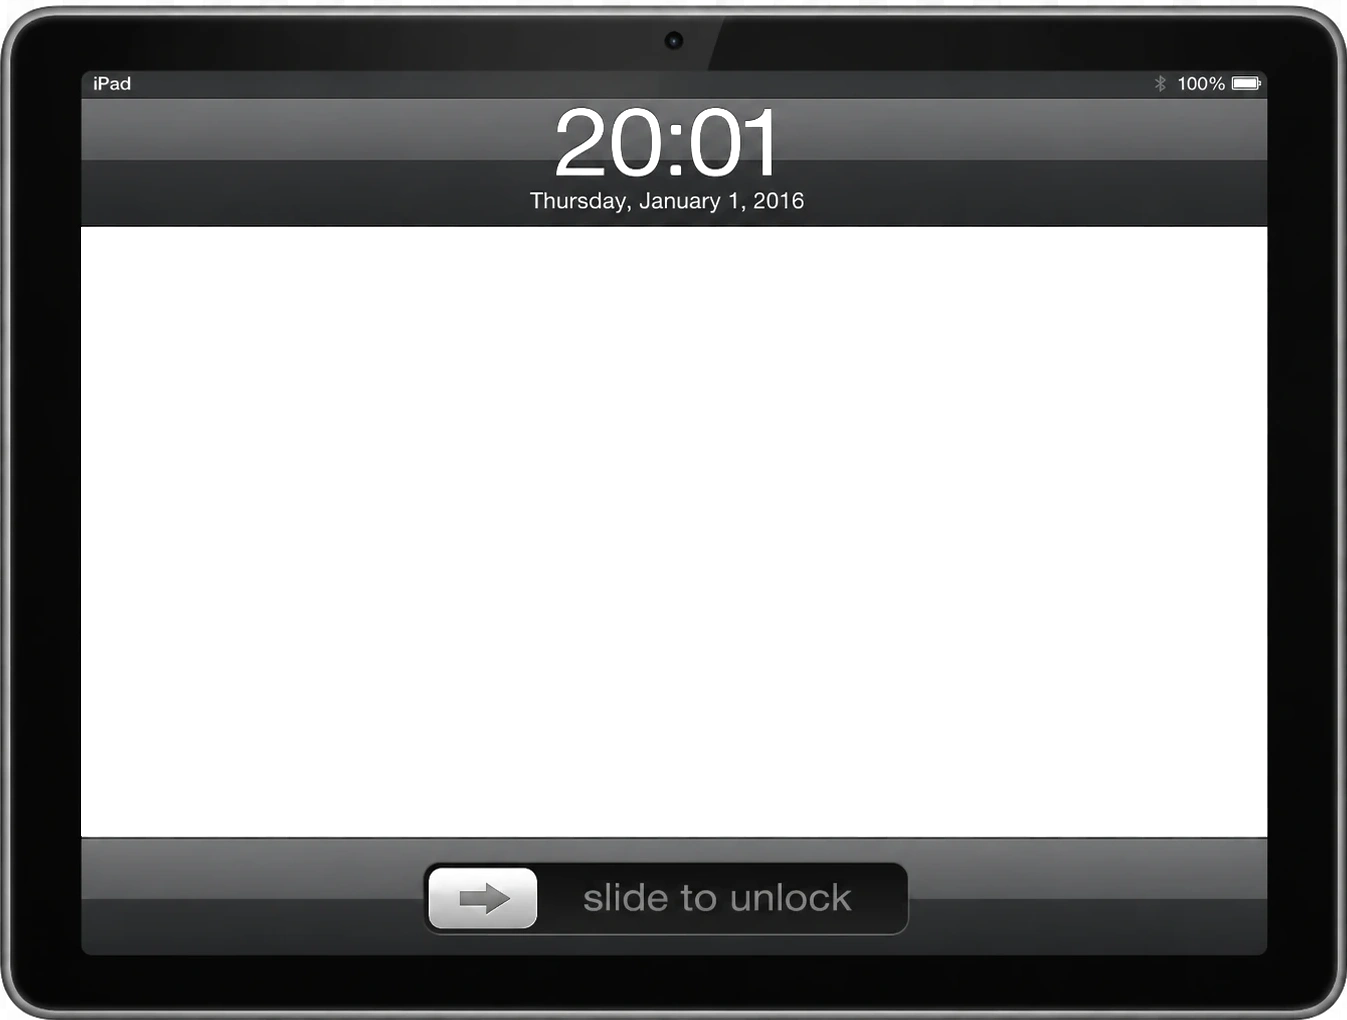
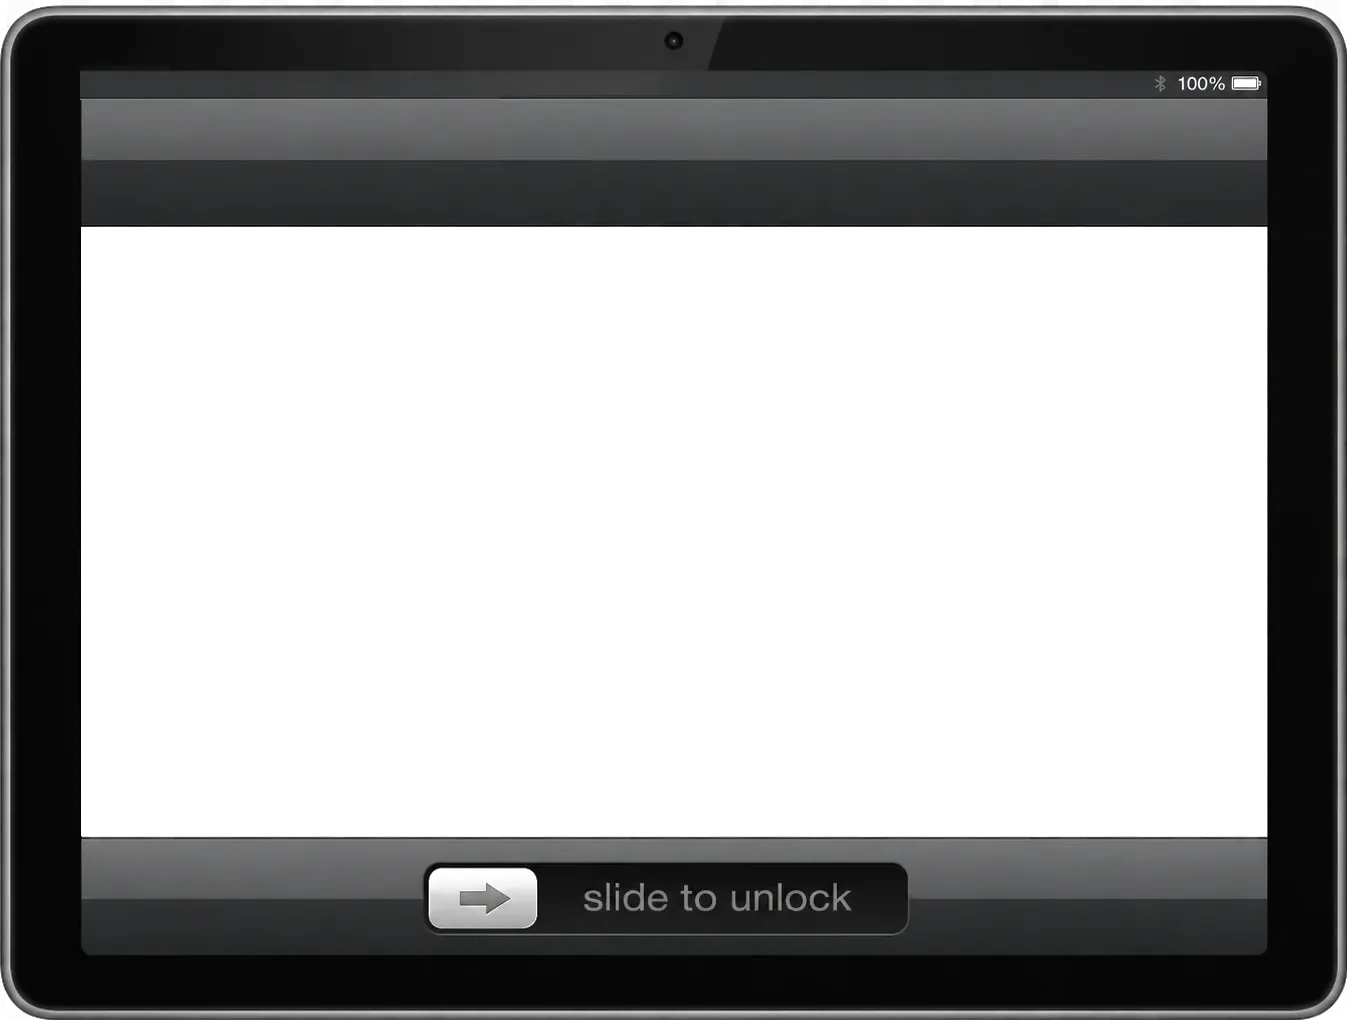
Live clock on the ipad frame, background on every player phase, fix floating vote row clipping off-screen
- Clone-stamp out the baked-in "iPad" label and frozen "20:01, Thursday,
  January 1, 2016" from the ipad frame art, replace with a live
  "xpressurself" label and each viewer's own local clock/date
  (components/YouTubePlayer.tsx, public/tv-border-ipad-v2.webp)
- Apply the shared background across every phase of the player screen
  (lobby, starting, spinning, submitting, results), not just while a
  song is playing, via a shared PlayerPageShell wrapper
- Clamp the room host's floating vote-row position so it always has
  enough headroom above the TV frame — a short song title could leave
  too little room, clipping the mic/text or star row off the top of
  the screen entirely

Changed region(s): [[0.4053, 0.0912, 0.5924, 0.2127], [0.0624, 0.0608, 0.0935, 0.0912]]

diff --git a/app/player/[code]/page.tsx b/app/player/[code]/page.tsx
@@ -30,6 +30,24 @@ function PlayerCountdown() {
   );
 }
 
+// Every phase of this page shares the same shell — same backdrop as /play
+// and the host's room view (for visual consistency across every screen a
+// player might be looking at), same TopBar, same centered "page" layout.
+// `hideTopBar` is only used during active gameplay, to cut clutter while
+// watching the video.
+function PlayerPageShell({ children, hideTopBar = false }: { children: React.ReactNode; hideTopBar?: boolean }) {
+  return (
+    <div className="page" style={{ justifyContent: "flex-start", paddingTop: "clamp(90px, 8vh, 150px)" }}>
+      <img src="/background-song-wars.webp" alt="" style={{
+        position: "fixed", inset: 0, width: "100%", height: "100%",
+        zIndex: -1, pointerEvents: "none", objectFit: "cover", objectPosition: "center",
+      }}/>
+      <TopBar hidden={hideTopBar} />
+      {children}
+    </div>
+  );
+}
+
 export default function PlayerView() {
   const { code } = useParams<{ code: string }>();
   const router = useRouter();
@@ -127,8 +145,7 @@ export default function PlayerView() {
 
   if (kicked) {
     return (
-      <div className="page" style={{ justifyContent: "flex-start", paddingTop: "clamp(90px, 8vh, 150px)" }}>
-        <TopBar />
+      <PlayerPageShell>
         <div className="glass p-8 text-center" style={{ maxWidth: 360, width: "100%" }}>
           <div style={{ fontSize: 40, marginBottom: 16 }}>👋</div>
           <h2 style={{ fontSize: 20, fontWeight: 800, marginBottom: 8 }}>Removed from the room</h2>
@@ -136,30 +153,28 @@ export default function PlayerView() {
             The host removed you from this room. Taking you back…
           </p>
         </div>
-      </div>
+      </PlayerPageShell>
     );
   }
 
   if (sessionEnded) {
     return (
-      <div className="page" style={{ justifyContent: "flex-start", paddingTop: "clamp(90px, 8vh, 150px)" }}>
-        <TopBar />
+      <PlayerPageShell>
         <div className="glass p-8 text-center" style={{ maxWidth: 360, width: "100%" }}>
           <p style={{ fontSize: 15, marginBottom: 8 }}>This game session has ended.</p>
           <p style={{ color: "var(--text-secondary)", fontSize: 13 }}>Taking you back to start a new one…</p>
         </div>
-      </div>
+      </PlayerPageShell>
     );
   }
 
   if (!room) {
     return (
-      <div className="page" style={{ justifyContent: "flex-start", paddingTop: "clamp(90px, 8vh, 150px)" }}>
-        <TopBar />
+      <PlayerPageShell>
         <div className="glass p-8 text-center">
           <p style={{ color: "var(--text-secondary)" }}>Connecting…</p>
         </div>
-      </div>
+      </PlayerPageShell>
     );
   }
 
@@ -170,8 +185,7 @@ export default function PlayerView() {
   // LOBBY
   if (room.phase === "lobby") {
     return (
-      <div className="page" style={{ justifyContent: "flex-start", paddingTop: "clamp(90px, 8vh, 150px)" }}>
-        <TopBar />
+      <PlayerPageShell>
         <div className="glass p-8 text-center" style={{ maxWidth: 360, width: "100%" }}>
           <div style={{ fontSize: 40, marginBottom: 16 }}>🎵</div>
           <h2 style={{ fontSize: 22, fontWeight: 800, marginBottom: 4 }}>You're in!</h2>
@@ -197,35 +211,33 @@ export default function PlayerView() {
             Waiting for host to spin…
           </p>
         </div>
-      </div>
+      </PlayerPageShell>
     );
   }
 
   // STARTING — 3s countdown
   if (room.phase === "starting") {
     return (
-      <div className="page" style={{ justifyContent: "flex-start", paddingTop: "clamp(90px, 8vh, 150px)" }}>
-        <TopBar />
+      <PlayerPageShell>
         <div className="glass p-10 text-center animate-fade-in" style={{ maxWidth: 360, width: "100%" }}>
           <p style={{ fontSize: 12, letterSpacing: "0.15em", color: "var(--text-secondary)", marginBottom: 16 }}>GET READY</p>
           <PlayerCountdown />
           <p style={{ color: "var(--text-secondary)", fontSize: 14, marginTop: 16 }}>Songs are about to play!</p>
         </div>
-      </div>
+      </PlayerPageShell>
     );
   }
 
   // SPINNING
   if (room.phase === "spinning") {
     return (
-      <div className="page" style={{ justifyContent: "flex-start", paddingTop: "clamp(90px, 8vh, 150px)" }}>
-        <TopBar />
+      <PlayerPageShell>
         <div className="glass p-8 text-center animate-fade-in" style={{ maxWidth: 360, width: "100%" }}>
           <div style={{ fontSize: 60, marginBottom: 16, animation: "cd-spin 1s linear infinite" }}>💿</div>
           <p style={{ fontSize: 18, fontWeight: 700 }}>Spinning the wheel…</p>
           <p style={{ color: "var(--text-secondary)", marginTop: 8, fontSize: 14 }}>Get ready to pick a song!</p>
         </div>
-      </div>
+      </PlayerPageShell>
     );
   }
 
@@ -236,8 +248,7 @@ export default function PlayerView() {
 
     if (inTiebreaker && !isInTiebreaker) {
       return (
-        <div className="page" style={{ justifyContent: "flex-start", paddingTop: "clamp(90px, 8vh, 150px)" }}>
-          <TopBar />
+        <PlayerPageShell>
           <div className="glass p-8 text-center" style={{ maxWidth: 360, width: "100%" }}>
             <div style={{ fontSize: 40, marginBottom: 12 }}>🔥</div>
             <h3 style={{ fontSize: 22, fontWeight: 800 }}>Tiebreaker!</h3>
@@ -245,14 +256,13 @@ export default function PlayerView() {
               Watch the tiebreaker round
             </p>
           </div>
-        </div>
+        </PlayerPageShell>
       );
     }
 
     if (submitted) {
       return (
-        <div className="page" style={{ justifyContent: "flex-start", paddingTop: "clamp(90px, 8vh, 150px)" }}>
-          <TopBar />
+        <PlayerPageShell>
           <div className="glass p-8 text-center animate-fade-in" style={{ maxWidth: 360, width: "100%" }}>
             <div style={{ fontSize: 48, marginBottom: 16 }}>✅</div>
             <h3 style={{ fontSize: 20, fontWeight: 800 }}>Song submitted!</h3>
@@ -263,13 +273,12 @@ export default function PlayerView() {
               {room.submissions.length} / {room.players.length}
             </p>
           </div>
-        </div>
+        </PlayerPageShell>
       );
     }
 
     return (
-      <div className="page" style={{ justifyContent: "flex-start", paddingTop: "clamp(90px, 8vh, 150px)" }}>
-        <TopBar />
+      <PlayerPageShell>
         <div style={{ width: "100%", maxWidth: 400, display: "flex", flexDirection: "column", gap: 20 }}>
           <div className="text-center" style={{ display: "flex", flexDirection: "column", alignItems: "center", gap: 10 }}>
             <p style={{ fontSize: 11, letterSpacing: "0.12em", color: "var(--text-secondary)" }}>CATEGORY</p>
@@ -318,7 +327,7 @@ export default function PlayerView() {
             </button>
           </div>
         </div>
-      </div>
+      </PlayerPageShell>
     );
   }
 
@@ -326,14 +335,7 @@ export default function PlayerView() {
   if (room.phase === "playing" && currentSong) {
     const showVideo = room.screenMode === "everyone";
     return (
-      <div className="page" style={{ justifyContent: "flex-start", paddingTop: "clamp(90px, 8vh, 150px)" }}>
-        {/* Same backdrop as /play and the host's room view, for visual
-            consistency across every screen a player might be looking at. */}
-        <img src="/background-song-wars.webp" alt="" style={{
-          position: "fixed", inset: 0, width: "100%", height: "100%",
-          zIndex: -1, pointerEvents: "none", objectFit: "cover", objectPosition: "center",
-        }}/>
-        <TopBar hidden />
+      <PlayerPageShell hideTopBar>
         <div style={{ width: "100%", maxWidth: showVideo ? 720 : 400, display: "flex", flexDirection: "column", gap: 20 }}>
           <div className="text-center">
             <p style={{ fontSize: 11, letterSpacing: "0.1em", color: "var(--text-secondary)" }}>
@@ -379,7 +381,7 @@ export default function PlayerView() {
             Category: <strong style={{ color: "var(--cream)" }}>{room.currentCategory}</strong>
           </p>
         </div>
-      </div>
+      </PlayerPageShell>
     );
   }
 
@@ -398,8 +400,7 @@ export default function PlayerView() {
       .sort((a, b) => b.avg - a.avg);
 
     return (
-      <div className="page" style={{ justifyContent: "flex-start", paddingTop: "clamp(90px, 8vh, 150px)" }}>
-        <TopBar />
+      <PlayerPageShell>
         <div style={{ width: "100%", maxWidth: 400, display: "flex", flexDirection: "column", gap: 16 }}>
           <div className="text-center">
             <h2 style={{ fontSize: 26, fontWeight: 900 }}>{room.gameOver ? "Game Over 🏆" : "Results 🏆"}</h2>
@@ -455,16 +456,15 @@ export default function PlayerView() {
             {room.gameOver ? "Waiting for host to start a new game…" : "Waiting for host…"}
           </p>
         </div>
-      </div>
+      </PlayerPageShell>
     );
   }
 
   return (
-    <div className="page" style={{ justifyContent: "flex-start", paddingTop: "clamp(90px, 8vh, 150px)" }}>
-      <TopBar />
+    <PlayerPageShell>
       <div className="glass p-8 text-center">
         <p style={{ color: "var(--text-secondary)" }}>Phase: {room?.phase}</p>
       </div>
-    </div>
+    </PlayerPageShell>
   );
 }

diff --git a/components/YouTubePlayer.tsx b/components/YouTubePlayer.tsx
@@ -1,5 +1,5 @@
 "use client";
-import { useEffect, useRef } from "react";
+import { useEffect, useRef, useSyncExternalStore } from "react";
 
 interface Props {
   youtubeUrl: string;
@@ -34,6 +34,13 @@ interface Props {
 // checker pattern under the video otherwise). Still rendered video-ON-TOP
 // rather than through the hole, just to keep both frame variants' layering
 // consistent — not a functional requirement at this point.
+//
+// The art also had a baked-in fake lock screen above the video area — an
+// "iPad" label plus a static "20:01 / Thursday, January 1, 2016". Those
+// glyphs were clone-stamped out with sharp (composited over with real
+// background pixels sampled from clear parts of the same gradient bands,
+// avoiding the icons and the screen's right edge) so IpadStatusOverlay
+// below can render a live label/clock in their place instead.
 const FRAMES = {
   tv: {
     src: "/tv-border-alpha-v2.webp",
@@ -55,6 +62,59 @@ const FRAMES = {
 function extractVideoId(url: string): string | null {
   const m = url.match(/(?:youtube\.com\/watch\?v=|youtu\.be\/|youtube\.com\/embed\/)([a-zA-Z0-9_-]{11})/);
   return m ? m[1] : null;
+}
+
+// Fills the blank spot the "ipad" frame's clone-stamped lock screen left
+// behind — a live label plus each player's own local clock, instead of the
+// frozen "iPad" / "20:01, Thursday, January 1, 2016" that used to be baked
+// into the art. Positions are percentages of the 1347x1020 source image,
+// matching where that original baked-in text sat. Font size rides on the
+// frame wrapper's own container-query width (see containerType below) so
+// it scales with the frame at any render size instead of the viewport.
+// `Date.now()` as the snapshot (not `new Date()`) — useSyncExternalStore
+// compares snapshots with Object.is, and two fresh Date objects are never
+// equal even at the same millisecond, which would trip its "getSnapshot
+// should be cached" infinite-loop guard. A number compares fine.
+function subscribeToClock(callback: () => void) {
+  const id = setInterval(callback, 30_000);
+  return () => clearInterval(id);
+}
+const getClockSnapshot = () => Date.now();
+// No real clock on the server — render nothing until mounted rather than
+// guess, so there's no wrong-timezone flash and nothing to hydrate-mismatch.
+const getServerClockSnapshot = () => null;
+
+function IpadStatusOverlay() {
+  const nowMs = useSyncExternalStore(subscribeToClock, getClockSnapshot, getServerClockSnapshot);
+  if (nowMs === null) return null;
+
+  const now = new Date(nowMs);
+  const time = now.toLocaleTimeString(undefined, { hour: "2-digit", minute: "2-digit", hour12: false });
+  const date = now.toLocaleDateString(undefined, { weekday: "long", month: "long", day: "numeric", year: "numeric" });
+  const textShadow = "0 1px 2px rgba(0,0,0,0.5)";
+
+  return (
+    <>
+      <div style={{
+        position: "absolute", left: "5.9%", top: "8.1%", transform: "translateY(-50%)",
+        fontFamily: "var(--font-ui)", fontWeight: 600, color: "#f2f2f2", textShadow,
+        fontSize: "clamp(8px, 2.1cqw, 15px)", letterSpacing: "0.01em", whiteSpace: "nowrap",
+        zIndex: 6, pointerEvents: "none",
+      }}>xpressurself</div>
+      <div style={{
+        position: "absolute", left: "49.3%", top: "13.8%", transform: "translate(-50%, -50%)",
+        fontFamily: "var(--font-ui)", fontWeight: 300, color: "#fff", textShadow,
+        fontSize: "clamp(16px, 6.2cqw, 46px)", letterSpacing: "0.01em", whiteSpace: "nowrap",
+        zIndex: 6, pointerEvents: "none",
+      }}>{time}</div>
+      <div style={{
+        position: "absolute", left: "49.4%", top: "18.7%", transform: "translate(-50%, -50%)",
+        fontFamily: "var(--font-ui)", fontWeight: 400, color: "rgba(255,255,255,0.88)", textShadow,
+        fontSize: "clamp(9px, 3cqw, 20px)", letterSpacing: "0.01em", whiteSpace: "nowrap",
+        zIndex: 6, pointerEvents: "none",
+      }}>{date}</div>
+    </>
+  );
 }
 
 // Mobile browsers block unmuted autoplay of embedded iframes outright — no
@@ -177,7 +237,13 @@ export default function YouTubePlayer({ youtubeUrl, startTime = 0, onReady, auto
   const { src, aspectRatio, screen: SCREEN, videoOnTop } = FRAMES[frame];
 
   return (
-    <div style={{ width: "100%", maxWidth: 720, margin: "0 auto", position: "relative", aspectRatio }}>
+    <div style={{
+      width: "100%", maxWidth: 720, margin: "0 auto", position: "relative", aspectRatio,
+      // Lets IpadStatusOverlay's text size ride on this box's own rendered
+      // width (cqw) instead of the viewport's, so it scales correctly
+      // however small the parent squeezes the frame down to.
+      containerType: "inline-size",
+    } as React.CSSProperties}>
       {/* Frame artwork — on top (z-index 5) when it has a real transparent
           hole the video shows through ("tv"); behind (z-index 1, same layer
           as the screen box below) when it doesn't ("ipad"), since there's
@@ -187,6 +253,8 @@ export default function YouTubePlayer({ youtubeUrl, startTime = 0, onReady, auto
         alt=""
         style={{ position: "absolute", inset: 0, width: "100%", height: "100%", zIndex: videoOnTop ? 1 : 5, pointerEvents: "none" }}
       />
+
+      {frame === "ipad" && <IpadStatusOverlay />}
 
       {/* Screen area — filled by the video */}
       <div style={{

diff --git a/app/room/[code]/page.tsx b/app/room/[code]/page.tsx
@@ -122,7 +122,15 @@ export default function HostRoom() {
         * (parseFloat(getComputedStyle(document.body).zoom) || 1);
       setTvTopCenter({
         x: (elRect.left - pageRect.left + elRect.width / 2) / zoom,
-        y: (elRect.top - pageRect.top) / zoom,
+        // Clamped — the floating row (mic/stars + text + vote count) sits
+        // entirely above this point via a translateY(-100%-ish) transform,
+        // so it needs its own height's worth of headroom plus the 26px
+        // gap. A short song title leaves the TV (and so this point) too
+        // close to the top of the page otherwise, clipping the row off
+        // the top of the screen. 160px comfortably fits the tallest
+        // version of that content (the mic + two-line "this is your
+        // song…" text) with room to spare.
+        y: Math.max((elRect.top - pageRect.top) / zoom, 160),
         width: elRect.width / zoom,
       });
     }
